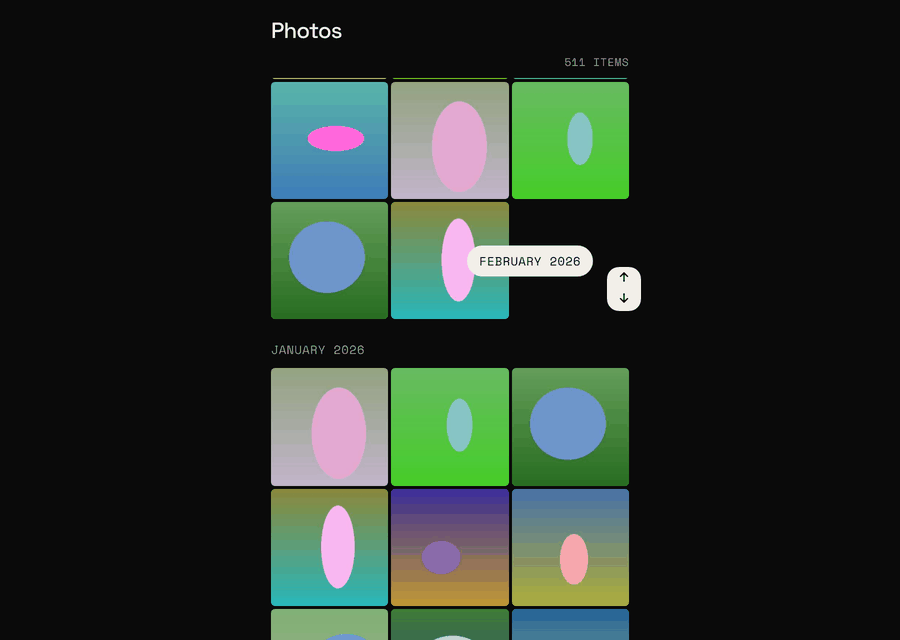
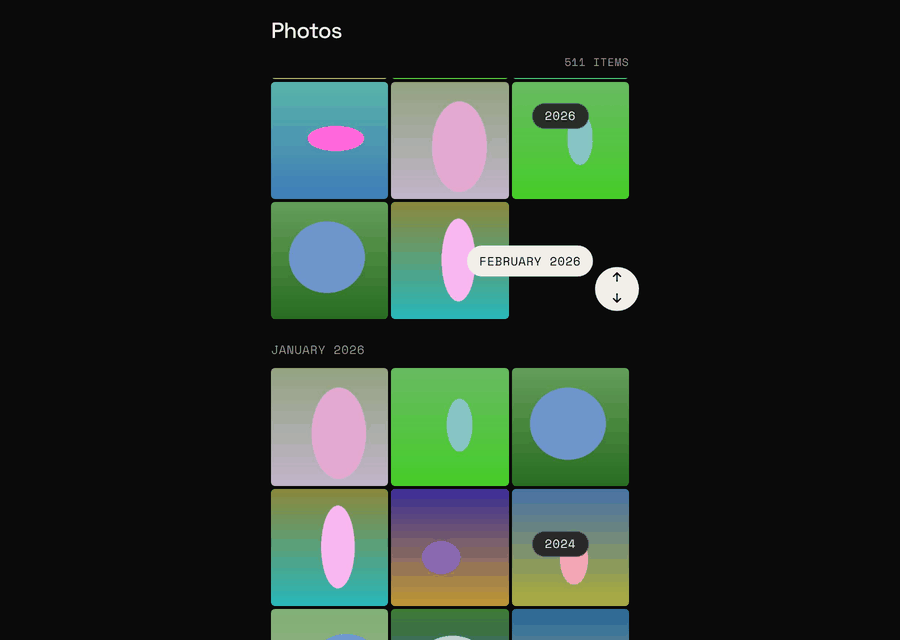
Glint scrubber: round handle and year pills while dragging
Claude-Session: https://claude.ai/code/session_01VefofAJBk2henUT5X9VXVo

Changed region(s): [[0.6533, 0.4062, 0.7156, 0.5], [0.5911, 0.8125, 0.6533, 0.875], [0.5911, 0.1562, 0.6533, 0.2188]]

diff --git a/public/style.css b/public/style.css
@@ -1335,16 +1335,20 @@ button.restore-name:hover { text-decoration: underline; text-underline-offset: 3
 
 /* Scrubber: a handle on the right edge that runs through the whole library, with the month beside it. */
 .gscrub { position: fixed; right: 0; top: 0; z-index: 15; width: 0; height: 0; pointer-events: none; will-change: transform; }
-.gscrub-grip { position: absolute; right: 0; top: 0; width: 44px; height: 56px; display: flex; align-items: center; justify-content: flex-end; padding-right: 4px; touch-action: none; cursor: grab; opacity: 0; pointer-events: none; transition: opacity 160ms ease; }
+.gscrub-grip { position: absolute; right: 0; top: 0; width: 60px; height: 56px; display: flex; align-items: center; justify-content: flex-end; padding-right: 6px; touch-action: none; cursor: grab; opacity: 0; pointer-events: none; transition: opacity 160ms ease; }
 .gscrub.live .gscrub-grip { opacity: 1; pointer-events: auto; }
-.gscrub-knob { display: flex; flex-direction: column; align-items: center; justify-content: center; width: 5px; height: 36px; border-radius: 3px; background: var(--ink); color: var(--bg); overflow: hidden; transition: width 120ms ease, border-radius 120ms ease; }
+.gscrub-knob { display: flex; flex-direction: column; align-items: center; justify-content: center; width: 20px; height: 20px; border-radius: 50%; background: var(--ink); color: var(--bg); overflow: hidden; box-shadow: 0 0 0 2px var(--bg); transition: width 120ms ease, height 120ms ease; }
 .gscrub-knob .ni { display: none; }
 .gscrub-knob .ni svg { width: 14px; height: 14px; stroke-width: 2.4; }
 .gscrub.drag .gscrub-grip { cursor: grabbing; }
-.gscrub.drag .gscrub-knob { width: 34px; height: 44px; border-radius: 12px; }
+.gscrub.drag .gscrub-knob { width: 44px; height: 44px; }
 .gscrub.drag .gscrub-knob .ni { display: block; }
 .gscrub-label { position: absolute; right: 52px; top: 50%; transform: translateY(-50%); padding: 7px 12px; border-radius: 999px; background: var(--ink); color: var(--bg); font-size: 12px; white-space: nowrap; opacity: 0; transition: opacity 160ms ease; }
 .gscrub.live .gscrub-label { opacity: 1; }
+.gscrub-marks { position: fixed; right: 0; top: 0; width: 0; height: 0; z-index: 15; pointer-events: none; }
+.gscrub-year { position: absolute; right: 56px; padding: 6px 12px; border-radius: 999px; background: rgba(30, 30, 30, 0.92); border: 1px solid var(--line); color: var(--ink); font-size: 12px; line-height: 1; white-space: nowrap; }
+.gscrub-year.under { visibility: hidden; }
+body.gview-open .gscrub-marks { display: none; }
 body.gscrub-drag { user-select: none; -webkit-user-select: none; }
 body.gview-open .gscrub { display: none; }
 @media (hover: hover) and (pointer: fine) {

diff --git a/public/glint.js b/public/glint.js
@@ -347,7 +347,8 @@
     const label = el('div', { class: 'gscrub-label mono' });
     const grip = el('div', { class: 'gscrub-grip' }, el('span', { class: 'gscrub-knob' }, gi('up'), gi('down')));
     const root = el('div', { class: 'gscrub hidden', 'aria-hidden': 'true' }, label, grip);
-    document.body.append(root);
+    const marks = el('div', { class: 'gscrub-marks hidden', 'aria-hidden': 'true' });
+    document.body.append(marks, root);
 
     const S = {
       on: false, drag: false, grab: 0,
@@ -403,6 +404,7 @@
       S.on = false;
       S.drag = false;
       root.classList.add('hidden');
+      marks.classList.add('hidden');
       root.classList.remove('live', 'drag');
     }
 
@@ -431,6 +433,24 @@
       let mi = S.cum.length - 1;
       while (mi > 0 && S.cum[mi] > pos) mi--;
       return { mi, ym: m[mi][0], within: Math.min(1, Math.max(0, (pos - S.cum[mi]) / Math.max(1, m[mi][1]))) };
+    }
+
+    // While dragging, each year of the library is a pill beside the track, so you can aim at one.
+    function showYears() {
+      const m = G.months;
+      let last = -99;
+      const pills = [];
+      m.forEach(([ym], i) => {
+        const y = ym.slice(0, 4);
+        if (i && m[i - 1][0].slice(0, 4) === y) return;
+        const at = Math.round((S.cum[i] / S.total) * S.span);
+        if (at - last < 34) return; // too close to the one above
+        last = at;
+        pills.push(el('span', { class: 'gscrub-year mono', text: y, 'data-at': String(at), style: `top:${at + GRIP / 2 - 15}px` }));
+      });
+      marks.style.top = `${S.top}px`;
+      marks.replaceChildren(...pills);
+      marks.classList.remove('hidden');
     }
 
     function place(f = S.f, text) {
@@ -500,6 +520,8 @@
       const f = S.span ? Math.min(1, Math.max(0, (clientY - S.grab - S.top) / S.span)) : 0;
       const at = atFraction(f);
       place(f, ymName(at.ym));
+      // The year pill under the handle gives way to the month label.
+      for (const y of marks.children) y.classList.toggle('under', Math.abs(Number(y.dataset.at) - S.y) < 34);
       S.ym = at.ym;
       S.pending = at;
       if (!S.frame) {
@@ -521,6 +543,7 @@
       root.classList.add('live', 'drag');
       document.body.classList.add('gscrub-drag');
       label.textContent = ymName(S.ym || G.months[0][0]);
+      showYears();
       clearTimeout(S.idle);
     });
     grip.addEventListener('pointermove', (e) => { if (S.drag) follow(e.clientY); });
@@ -530,6 +553,7 @@
       S.drag = false;
       document.body.classList.remove('gscrub-drag');
       root.classList.remove('drag');
+      marks.classList.add('hidden');
       const p = S.pending;
       S.pending = null;
       if (p && !loaded(p.ym)) {
